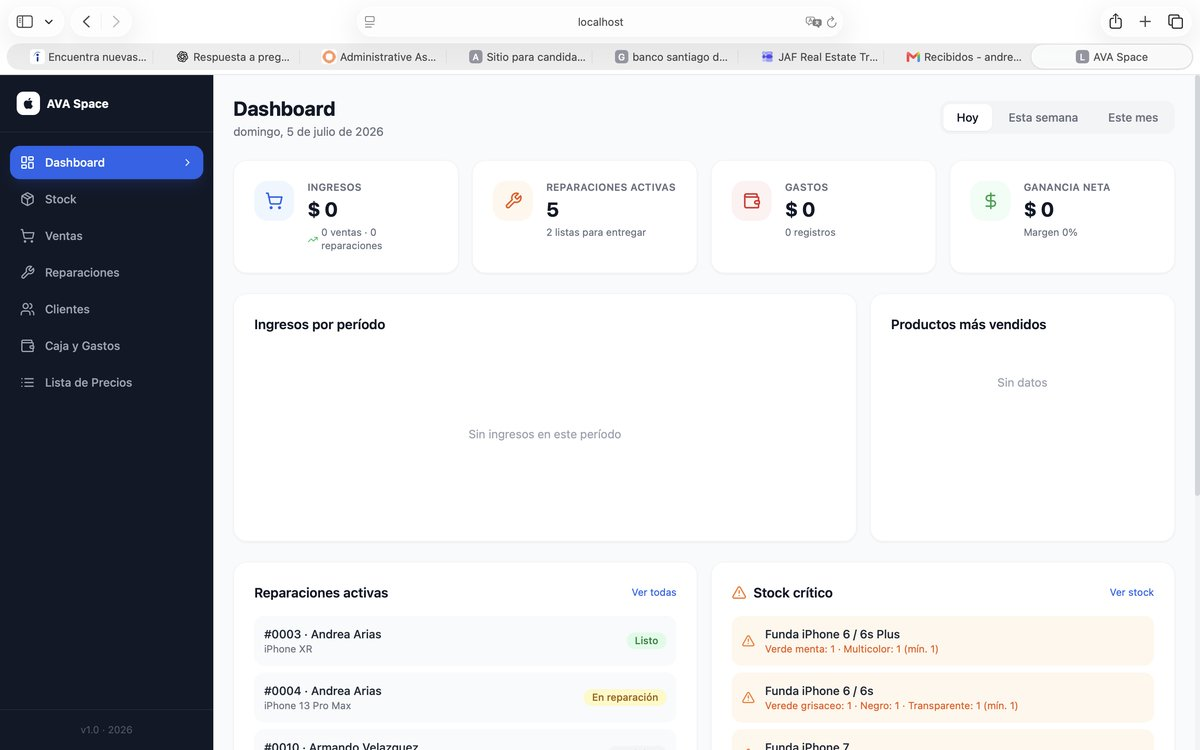
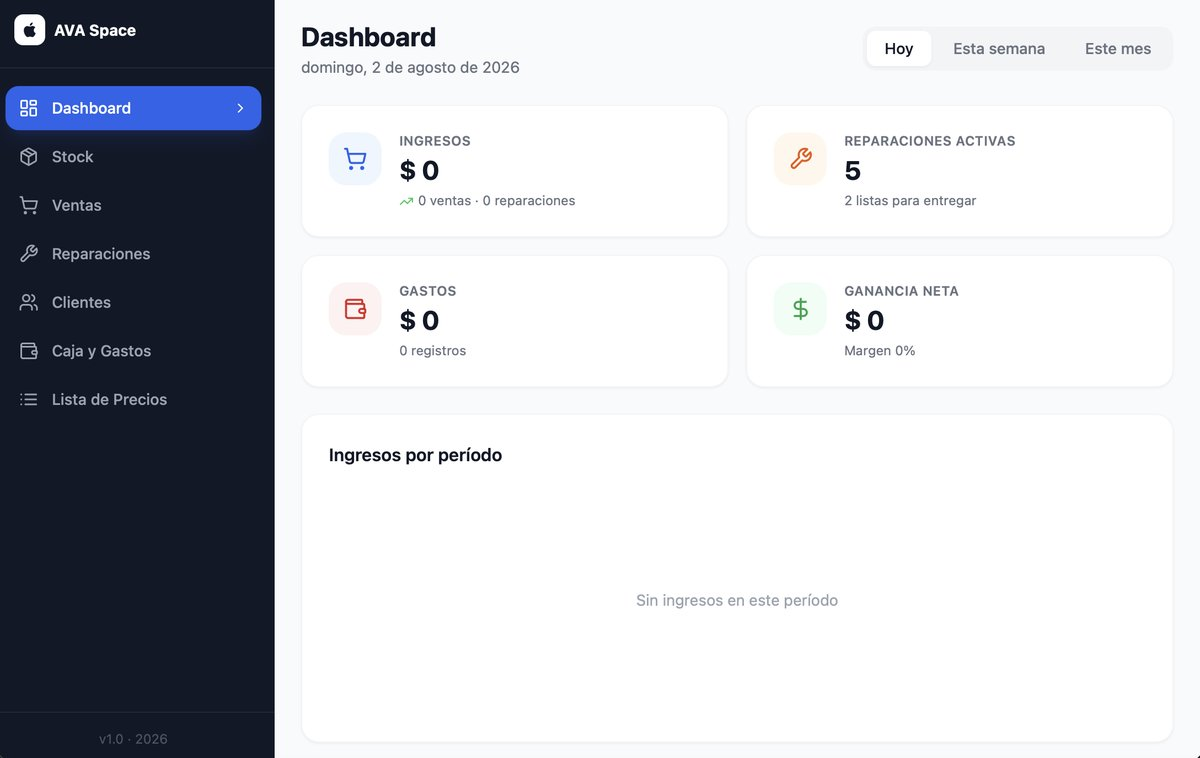
Show AVA Space captures as a stacked carousel
The masonry grid reflowed its columns on hover, collapsing the shots
into a single left-hand column. They now sit in a fixed stage: one
capture centred and sharp, its neighbours scaled back, dimmed and
blurred behind it, with prev/next arrows and a counter. Clicking a
stacked neighbour brings it forward. Absolute positioning means
hovering can no longer move anything.

Slides share one frame with object-fit:contain, so captures ranging
from 0.67 to 1.84 in aspect still show whole. The stage clips the
neighbours that would otherwise push past the viewport on phones,
with an inset so the active slide keeps its shadow.

Swaps the dashboard capture for the newer one, which is free of
browser chrome.

diff --git a/assets/css/style.css b/assets/css/style.css
@@ -1235,22 +1235,139 @@ section {
   margin-bottom: 56px;
 }
 
-.project-shots {
-  column-count: 3;
-  column-gap: 20px;
+/* AVA Space gallery: one shot centred, neighbours stacked behind and
+   blurred. Slides share a fixed frame and the images sit inside with
+   object-fit:contain, so every capture shows whole whatever its ratio. */
+.project-gallery {
   margin-bottom: 64px;
 }
 
-.project-shots img {
-  width: 100%;
+.gallery-stage {
+  position: relative;
+  height: clamp(300px, 44vw, 540px);
+  overflow: hidden;
+  padding: 26px 0;
+}
+
+.gallery-item {
+  position: absolute;
+  top: 26px;
+  left: 50%;
+  width: min(70%, 720px);
+  height: calc(100% - 52px);
+  margin: 0;
+  display: flex;
+  align-items: center;
+  justify-content: center;
+  transform: translateX(-50%);
+  transition: transform 0.55s cubic-bezier(0.19, 1, 0.22, 1),
+              opacity 0.55s ease, filter 0.55s ease;
+}
+
+.gallery-item img {
+  max-width: 100%;
+  max-height: 100%;
+  width: auto;
   height: auto;
-  display: block;
-  margin-bottom: 20px;
-  break-inside: avoid;
   border-radius: 16px;
   border: 1px solid rgba(var(--graphite-rgb), 0.12);
   background: var(--ivory);
-  box-shadow: 0 8px 24px rgba(var(--graphite-rgb), 0.06);
+  box-shadow: 0 18px 44px rgba(var(--graphite-rgb), 0.14);
+}
+
+.gallery-item[data-pos="0"] {
+  transform: translateX(-50%) scale(1);
+  opacity: 1;
+  filter: none;
+  z-index: 5;
+}
+
+.gallery-item[data-pos="1"] {
+  transform: translateX(-4%) scale(0.86);
+  opacity: 0.5;
+  filter: blur(3px);
+  z-index: 4;
+  cursor: pointer;
+}
+
+.gallery-item[data-pos="-1"] {
+  transform: translateX(-96%) scale(0.86);
+  opacity: 0.5;
+  filter: blur(3px);
+  z-index: 4;
+  cursor: pointer;
+}
+
+.gallery-item[data-pos="2"] {
+  transform: translateX(20%) scale(0.74);
+  opacity: 0.26;
+  filter: blur(5px);
+  z-index: 3;
+}
+
+.gallery-item[data-pos="-2"] {
+  transform: translateX(-120%) scale(0.74);
+  opacity: 0.26;
+  filter: blur(5px);
+  z-index: 3;
+}
+
+.gallery-item[data-pos="far"] {
+  transform: translateX(-50%) scale(0.68);
+  opacity: 0;
+  z-index: 1;
+  pointer-events: none;
+}
+
+.gallery-controls {
+  display: flex;
+  align-items: center;
+  justify-content: center;
+  gap: 20px;
+  margin-top: 32px;
+}
+
+.gallery-nav {
+  width: 44px;
+  height: 44px;
+  border-radius: 50%;
+  border: 1px solid rgba(var(--accent-rgb), 0.3);
+  background: transparent;
+  color: var(--accent);
+  cursor: pointer;
+  display: flex;
+  align-items: center;
+  justify-content: center;
+  transition: background 0.3s ease, color 0.3s ease, opacity 0.3s ease;
+}
+
+.gallery-nav svg { width: 20px; height: 20px; }
+
+.gallery-nav:hover:not(:disabled) {
+  background: var(--accent);
+  color: var(--ivory);
+}
+
+.gallery-nav:disabled {
+  opacity: 0.3;
+  cursor: default;
+}
+
+.gallery-count {
+  font-size: 0.8rem;
+  letter-spacing: 0.12em;
+  color: var(--graphite);
+  opacity: 0.55;
+  min-width: 54px;
+  text-align: center;
+}
+
+@media (max-width: 720px) {
+  .gallery-item { width: 82%; }
+  .gallery-item[data-pos="1"]  { transform: translateX(6%) scale(0.84); }
+  .gallery-item[data-pos="-1"] { transform: translateX(-106%) scale(0.84); }
+  .gallery-item[data-pos="2"],
+  .gallery-item[data-pos="-2"] { opacity: 0; }
 }
 
 .project-grid {
@@ -1420,9 +1537,6 @@ section {
     grid-template-columns: 1fr;
   }
 
-  .project-shots {
-    column-count: 2;
-  }
 }
 
 @media (max-width: 720px) {
@@ -1464,7 +1578,6 @@ section {
 
   .hero { padding-top: 120px; }
 
-  .project-shots { column-count: 1; }
 
   /* side-by-side label/value can't hold a full email at this width */
   .contact-link {

diff --git a/index.html b/index.html
@@ -398,13 +398,37 @@
     <p class="project-subtitle lang-es">Rebrand y sistema operativo completo para un negocio de tecnología en Salta.</p>
     <p class="project-subtitle lang-en">Full rebrand and operating system for a tech business in Salta, Argentina.</p>
 
-    <div class="project-shots">
-      <img src="assets/img/ava-dashboard.jpg" alt="AVA Space — dashboard de gestión" loading="lazy">
-      <img src="assets/img/ava-precios.jpg" alt="AVA Space — lista de precios" loading="lazy">
-      <img src="assets/img/ava-ventas.jpg" alt="AVA Space — registro de ventas" loading="lazy">
-      <img src="assets/img/ava-clientes.jpg" alt="AVA Space — base de clientes" loading="lazy">
-      <img src="assets/img/ava-exportacion.jpg" alt="AVA Space — exportación de datos" loading="lazy">
-      <img src="assets/img/ava-modulos.jpg" alt="AVA Space — módulos del sistema" loading="lazy">
+    <div class="project-gallery" id="ava-gallery">
+      <div class="gallery-stage" id="ava-stage">
+        <figure class="gallery-item">
+          <img src="assets/img/ava-dashboard.jpg" alt="AVA Space — dashboard de gestión" loading="lazy">
+        </figure>
+        <figure class="gallery-item">
+          <img src="assets/img/ava-precios.jpg" alt="AVA Space — lista de precios" loading="lazy">
+        </figure>
+        <figure class="gallery-item">
+          <img src="assets/img/ava-ventas.jpg" alt="AVA Space — registro de ventas" loading="lazy">
+        </figure>
+        <figure class="gallery-item">
+          <img src="assets/img/ava-clientes.jpg" alt="AVA Space — base de clientes" loading="lazy">
+        </figure>
+        <figure class="gallery-item">
+          <img src="assets/img/ava-exportacion.jpg" alt="AVA Space — exportación de datos" loading="lazy">
+        </figure>
+        <figure class="gallery-item">
+          <img src="assets/img/ava-modulos.jpg" alt="AVA Space — módulos del sistema" loading="lazy">
+        </figure>
+      </div>
+
+      <div class="gallery-controls">
+        <button type="button" class="gallery-nav" id="ava-prev" aria-label="Captura anterior">
+          <svg viewBox="0 0 24 24" fill="none" stroke="currentColor" stroke-width="1.5" stroke-linecap="round" stroke-linejoin="round"><path d="M19 12H5M11 6l-6 6 6 6"/></svg>
+        </button>
+        <p class="gallery-count"><span id="ava-index">1</span> / 6</p>
+        <button type="button" class="gallery-nav" id="ava-next" aria-label="Captura siguiente">
+          <svg viewBox="0 0 24 24" fill="none" stroke="currentColor" stroke-width="1.5" stroke-linecap="round" stroke-linejoin="round"><path d="M5 12h14M13 6l6 6-6 6"/></svg>
+        </button>
+      </div>
     </div>
 
     <div class="project-grid">

diff --git a/assets/js/script.js b/assets/js/script.js
@@ -47,6 +47,45 @@
     })();
   }
 
+  /* ---------- AVA Space gallery (stacked carousel) ---------- */
+  var avaStage = document.getElementById('ava-stage');
+
+  if (avaStage) {
+    var avaItems = Array.prototype.slice.call(avaStage.querySelectorAll('.gallery-item'));
+    var avaPrev = document.getElementById('ava-prev');
+    var avaNext = document.getElementById('ava-next');
+    var avaIndexOut = document.getElementById('ava-index');
+    var avaIndex = 0;
+
+    function avaRender() {
+      avaItems.forEach(function (item, i) {
+        var offset = i - avaIndex;
+        // only the two neighbours on each side stay in the stack
+        item.setAttribute('data-pos', Math.abs(offset) > 2 ? 'far' : String(offset));
+      });
+      if (avaPrev) avaPrev.disabled = avaIndex === 0;
+      if (avaNext) avaNext.disabled = avaIndex === avaItems.length - 1;
+      if (avaIndexOut) avaIndexOut.textContent = String(avaIndex + 1);
+    }
+
+    function avaGo(i) {
+      avaIndex = Math.max(0, Math.min(avaItems.length - 1, i));
+      avaRender();
+    }
+
+    if (avaPrev) avaPrev.addEventListener('click', function () { avaGo(avaIndex - 1); });
+    if (avaNext) avaNext.addEventListener('click', function () { avaGo(avaIndex + 1); });
+
+    // clicking a stacked neighbour brings it to the front
+    avaItems.forEach(function (item, i) {
+      item.addEventListener('click', function () {
+        if (i !== avaIndex) avaGo(i);
+      });
+    });
+
+    avaRender();
+  }
+
   /* ---------- solutions carousel + panels ---------- */
   var solTrack = document.getElementById('sol-track');
 
